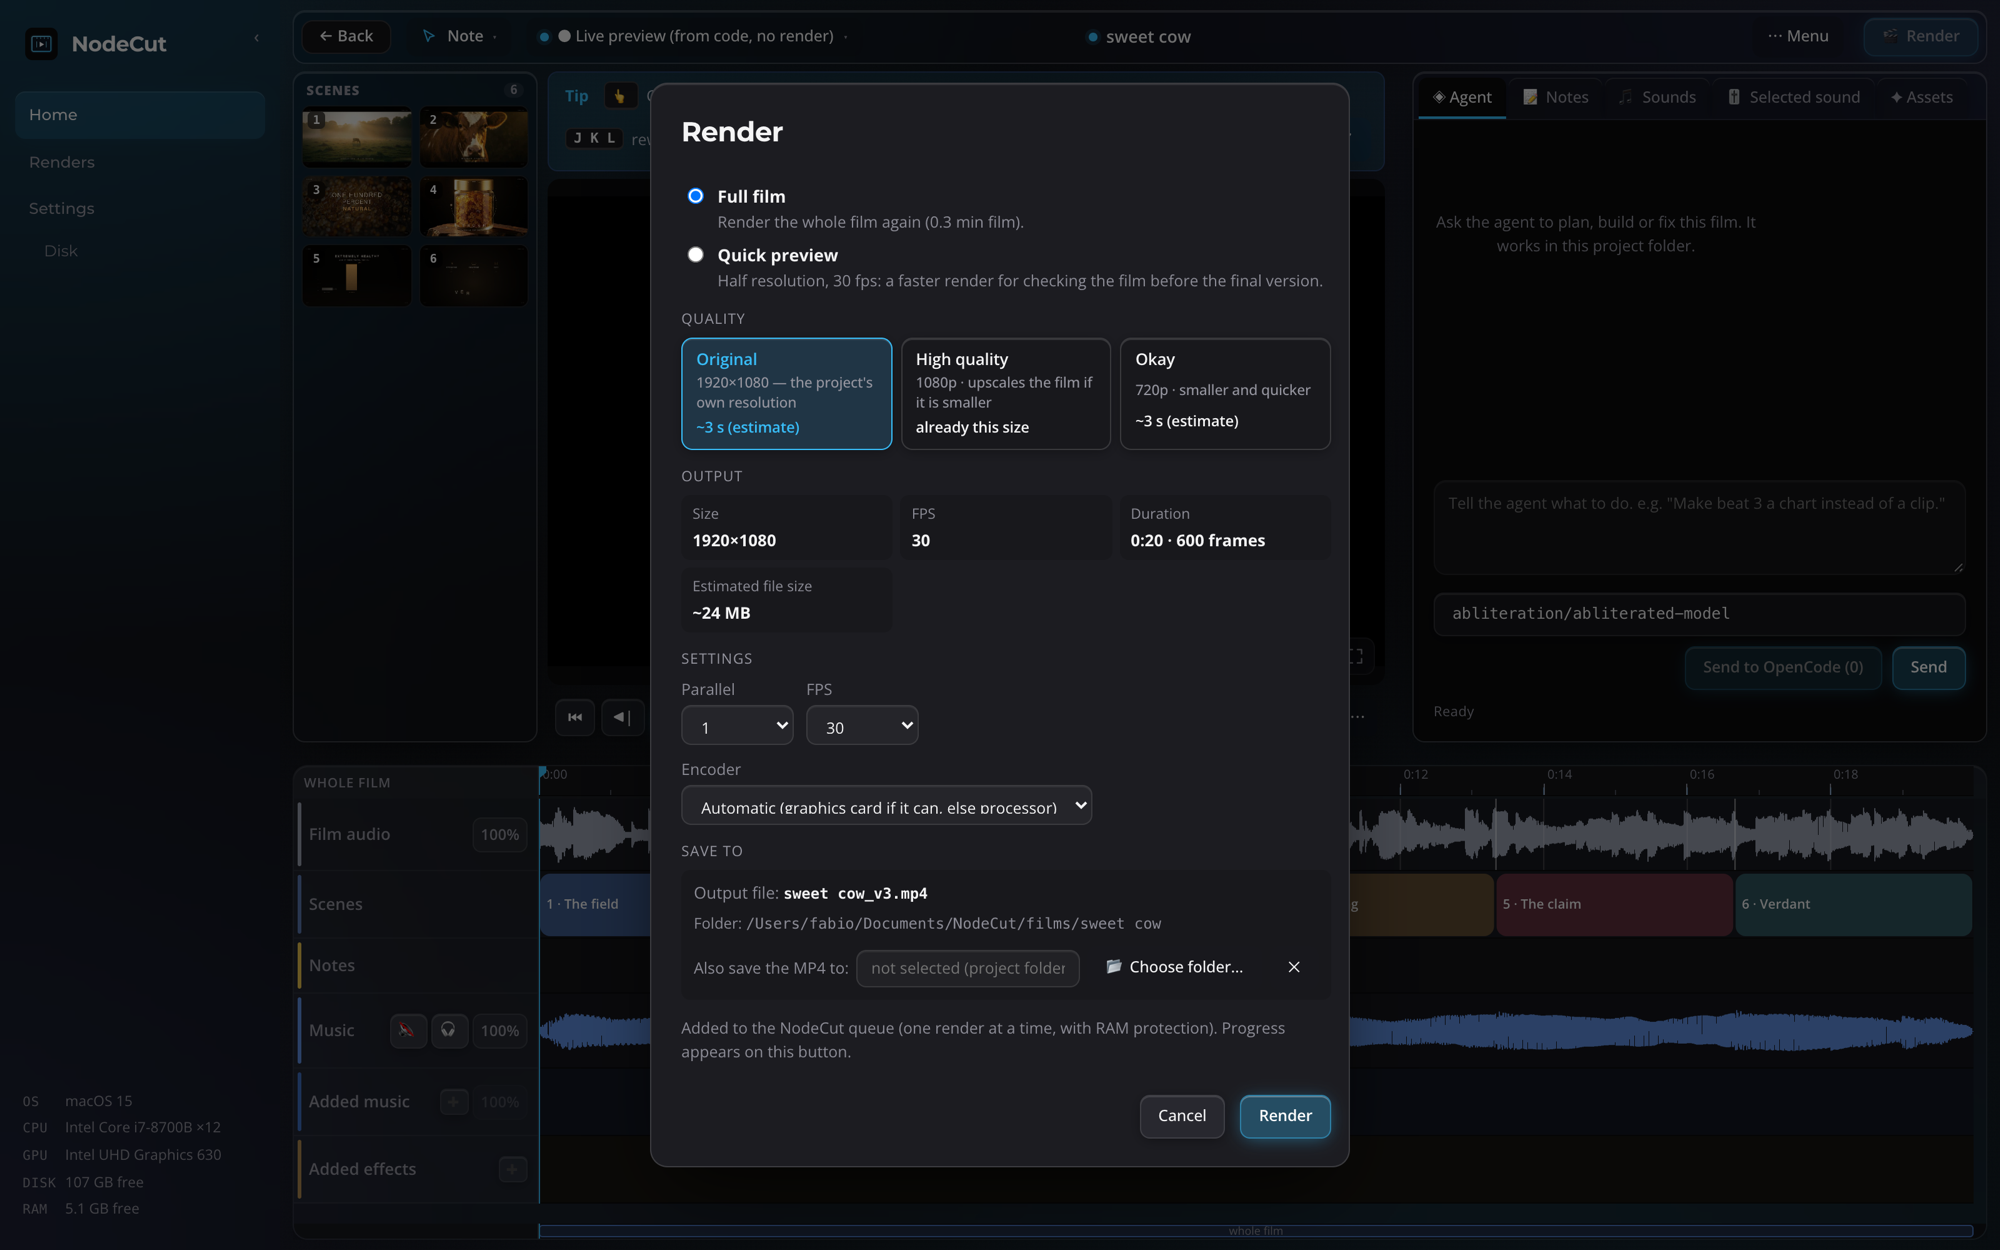
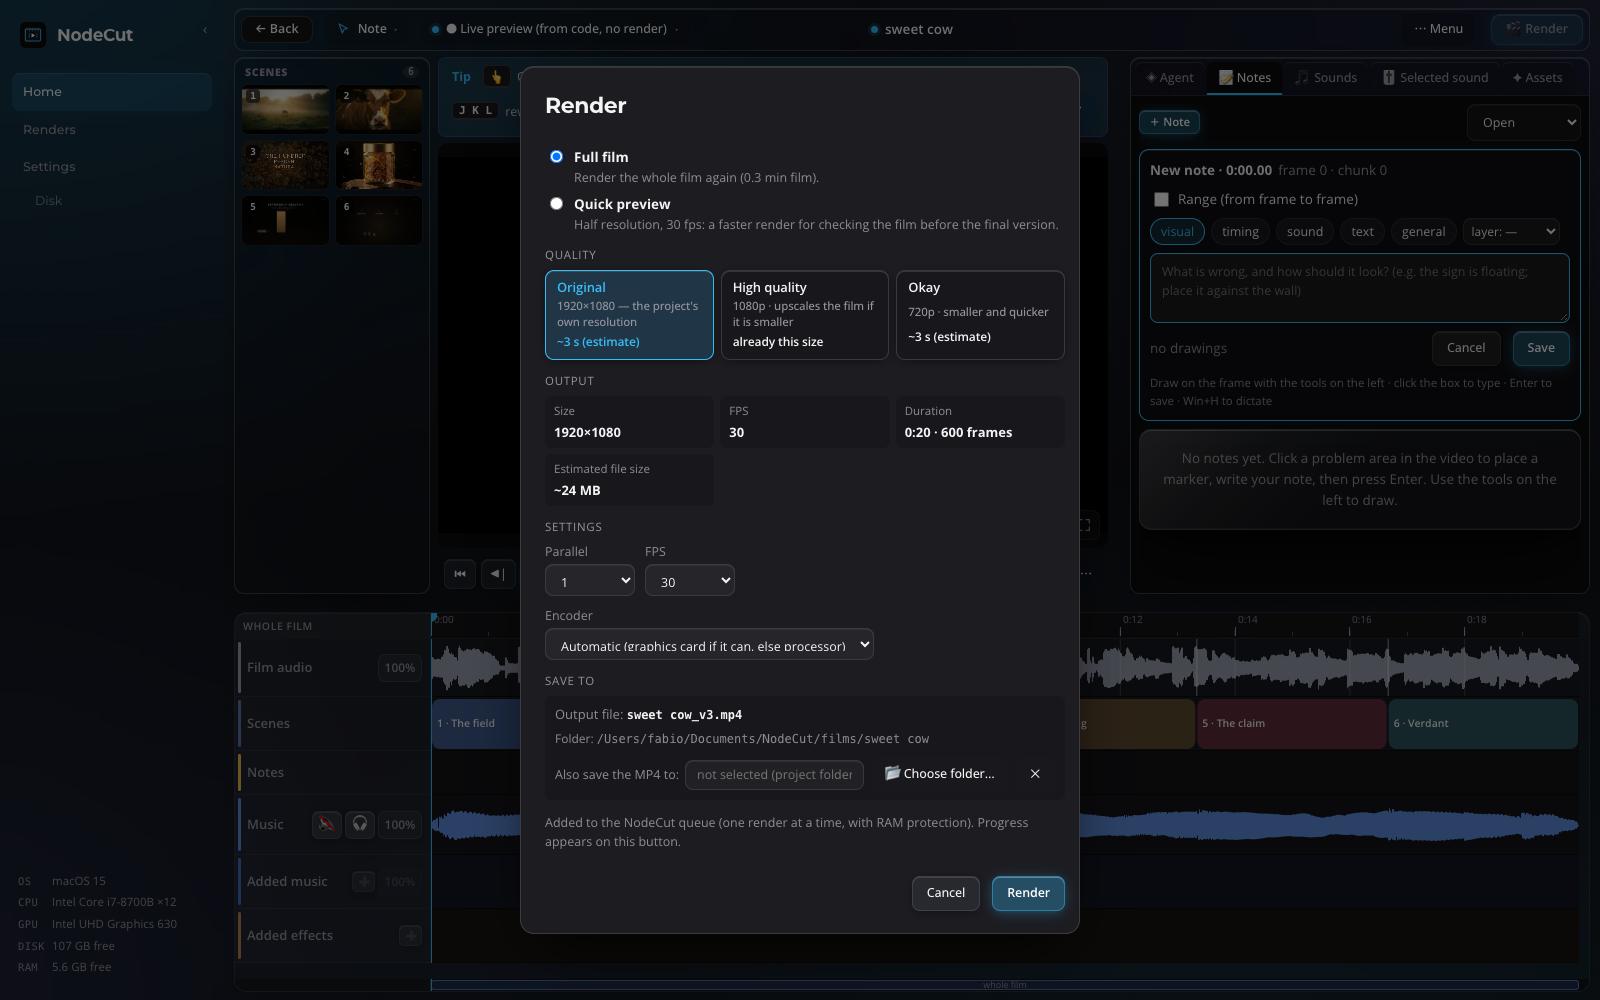
README: no repeated screenshots, and a notes shot that shows the review loop
You were right that the render screens repeated. The cause was a capture
bug, not a copy-paste: the screenshot run opened the Render dialog and pressed
Escape to close it, but the dialog survived, so the shot meant to show the
Renders page was actually the same dialog over the Renders page. The README
then showed that dialog twice in a row, once labelled "Renders".

recaptured every page shot with a helper that removes any open dialog before
it takes a picture, so a modal can no longer leak into a page screenshot.

The images are now seven, no file used twice, and each shows something
different:

  social card     the brand
  tools dropdown  the review page and its tools
  notes           the Notes tab with the composer open   (new)
  assets          stills and clips with thumbnails
  quality         the Render dialog and its three estimates
  projects        the project list
  renders         the Renders page itself, with no dialog over it

The quality shot also moved up beside the feature that describes it, instead
of sitting next to the Renders page where the two looked like a repeat.

387 tests, 385 pass, 1 skipped, 1 pre-existing upstream failure.

diff --git a/README.md b/README.md
@@ -72,6 +72,9 @@ that one guarantee.
 **Review**
 - **Notes on frames** — click or draw on any frame (or pick a range) and say what is wrong. The agent gets the time,
   frame, chunk and a close-up of your drawing.
+
+![Writing a note on a frame](docs/screenshots/notes.png)
+
 - **Scene outline** — a grid of real thumbnails beside the picture, so you can jump to a scene instead of scrubbing. Each
   shot is captured at the scene's midpoint, where the picture is not black.
 - **Assets with previews** — every still and clip the models made, shown as itself: a still shows the image, a clip shows
@@ -85,8 +88,11 @@ that one guarantee.
 **Deliver**
 - **Render queue** — one render at a time, progress and ETA, size/fps/workers/encoder, a copy to any folder, a desktop
   notification when available.
-- **Three output qualities** — original, 1080p high quality (upscales a smaller film), or 720p okay. Each card carries an
-  estimate worked out from this film's last render, so the trade is visible before you press Render.
+- **Three output qualities** — original, 1080p high quality, or 720p okay. Each card carries an estimate worked out from
+  this film's last render, so the trade is visible before you press Render.
+
+![Three output qualities, each with its estimated time](docs/screenshots/render-quality.png)
+
 - **Partial re-render** — re-renders only the chunks your notes touched, joins the film again, and saves `film_vN.mp4`
   with the changed ranges. **Watch only the changes** plays just those.
 - **Render protection** — CPU affinity, niceness and RAM slow mode, so the computer stays usable.
@@ -153,8 +159,6 @@ Built into the Node server, with no compiled helper:
   processor fallback. See [render speed](docs/RENDER-SPEED.md).
 
 ![Renders](docs/screenshots/renders.png)
-
-![Render quality and its estimate](docs/screenshots/render-quality.png)
 
 ## Requirements
 All platforms need Node.js 22+, ffmpeg on PATH, a native Chrome/Chromium/Edge browser for headless rendering, and Claude
